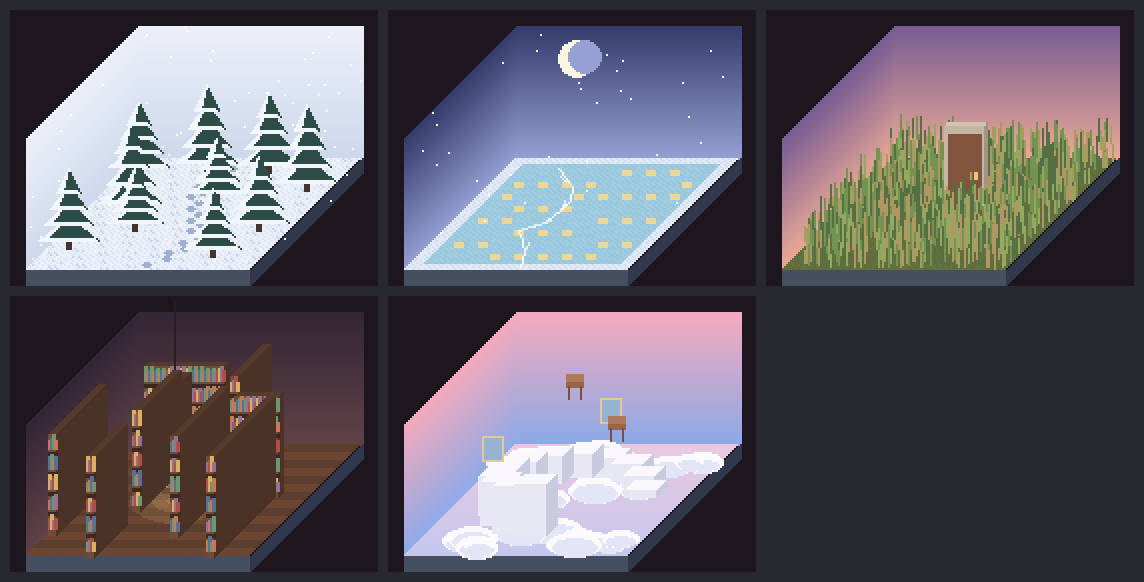
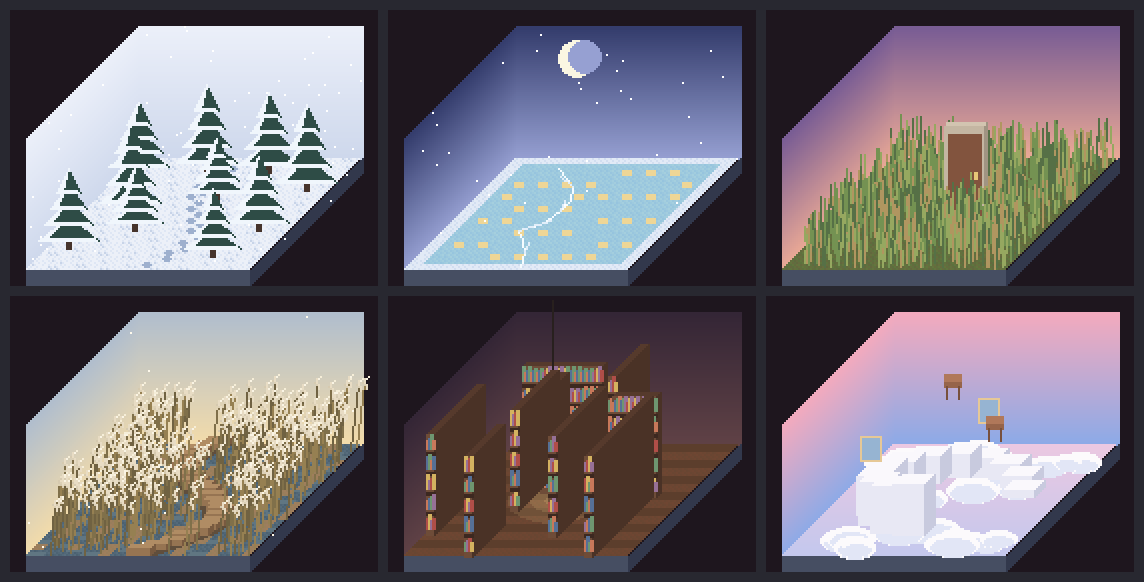
Add reed marsh dream scene (boardwalk through reeds)
Claude-Session: https://claude.ai/code/session_01FPZSaKiVNU2zED737yZX4w

diff --git a/tools/render_dream.py b/tools/render_dream.py
@@ -114,8 +114,35 @@ def stairs():
     for (x, d, z, k) in ((24, 40, 34, 0), (84, 44, 40, 1), (60, 86, 30, 0), (40, 90, 38, 1)): thing(x, d, z, k)
     sc.run(); return sc.img
 
+def reeds():
+    """갈대숲: 얕은 물 위 나무 데크 길이 갈대 사이로 구불구불 이어진다. 바람에 한쪽으로 누운 갈대와 솜털 이삭. 좁은 길 추격(양옆이 막힘)."""
+    cx = lambda d: 56 + 22 * math.sin(d / 20.0)
+    def ground(x, d):
+        n = noise(x, d); a = abs(x - cx(d))
+        if a < 8: return (96, 78, 60)                                              # 데크 밑
+        if noise(int(x // 6), int(d // 6), 4) > .72: return (150 + int(n * 12), 126, 92)   # 진흙 섬
+        return (74 + int(n * 14), 96 + int(n * 14), 112 + int(n * 14)) if int(d // 4 + x // 9) % 3 else (96, 118, 130)   # 얕은 물(결 줄무늬)
+    sc = base((176, 190, 206), (244, 220, 170), ground); rng = random.Random(12)
+    for d in range(0, D, 5):                                                       # 데크 널빤지
+        x = cx(d) - 6
+        def plank(x=x, d=d): sc.box(x, d, 12, 4, 2.5, (176, 140, 100), (150, 116, 82), (120, 90, 64), z0=1)
+        sc.jobs.append((d, plank))
+    for i in range(520):                                                           # 갈대: 길 가장자리는 비우고 그 밖에 빽빽하게
+        x, d = rng.uniform(1, W - 1), rng.uniform(2, D - 1)
+        if abs(x - cx(d)) < 9.5: continue
+        def reed(x=x, d=d, i=i):
+            b = sc.P(x, d, 0); h = 22 + int(noise(x, d, 4) * 14); lean = 2 + int(noise(x, d, 9) * 3)
+            stem = ((128, 112, 74), (150, 128, 82), (112, 98, 66))[i % 3]; top = (b[0] + lean, b[1] - h)
+            sc.d.line([b, (b[0] + lean // 2, b[1] - h // 2), top], fill=stem)
+            for dx, dy, c in ((0, 0, (236, 226, 204)), (1, -1, (250, 244, 228)), (-1, 1, (214, 202, 176)), (2, -2, (246, 238, 216)), (0, 2, (220, 208, 182))): sc.d.point((top[0] + dx, top[1] + dy), fill=c)   # 솜털 이삭
+            sc.d.line([(top[0], top[1] - 1), (top[0] + 1, top[1] + 4)], fill=(232, 220, 196))
+        sc.jobs.append((d, reed))
+    for _ in range(30):                                                            # 날아다니는 솜털
+        X, Y = rng.randrange(8, sc.CW - 8), rng.randrange(8, sc.CH - 12); (sc.px[X, Y] != MARGIN) and sc.d.point((X, Y), fill=(255, 250, 236))
+    sc.run(); return sc.img
+
 def main():
-    scenes = {'snow': snow, 'lake': lake, 'grass': grass, 'library': library, 'stairs': stairs}; imgs = {}
+    scenes = {'snow': snow, 'lake': lake, 'grass': grass, 'reeds': reeds, 'library': library, 'stairs': stairs}; imgs = {}
     for k, f in scenes.items():
         im = f(); imgs[k] = im; im.save(os.path.join(OUT, 'dream_%s.png' % k)); im.resize((im.width * 3, im.height * 3), Image.NEAREST).save(os.path.join(OUT, 'dream_%s_x3.png' % k))
     S = 2; pad = 10; w = imgs['snow'].width * S; h = imgs['snow'].height * S

diff --git a/docs/superpowers/specs/2026-11-14-stopped-clock-design.md b/docs/superpowers/specs/2026-11-14-stopped-clock-design.md
@@ -413,3 +413,4 @@
 - 꿈 장면은 파출소 같은 현실 공간이 아니라 **눈 덮인 곳·숲·호수·들판 같은 현실과 동떨어진 풍경**으로 한다. 개연성은 없을수록 좋고, 장면 사이는 이유 없이 이어진다(문, 구멍, 발자국, 책 등 이음새).
 - 모든 장면은 **추격전이 나올 수 있게** 짠다. 구조는 직선(눈 숲), 갈라짐(호수), 엄폐(들판), 미로(도서관), 순환(구름 계단) 중 하나를 쓴다.
 - 시안 5종(`tools/render_dream.py` → `maps/out/dream_<이름>.png`, `dream_sheet.png`): 눈 덮인 숲(이미 나 있는 한 사람의 발자국), 얼어붙은 호수(얼음 아래 아파트 불빛과 지그재그 금), 끝없는 들판(키 큰 풀 속에 홀로 선 문), 거대한 도서관(책장 미로), 구름 위 계단(원을 그리는 계단, 떠다니는 의자·액자).
+- 갈대숲 추가(`dream_reeds.png`): 해 질 녘 얕은 물 위에 나무 데크 길이 갈대 사이로 구불구불 이어진다. 양옆이 막힌 좁은 길 추격 구조. 바람에 누운 갈대와 솜털 이삭이 날린다.
